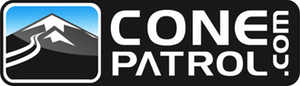
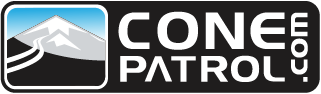
changing the design a bit

diff --git a/app/assets/stylesheets/base.css b/app/assets/stylesheets/base.css
@@ -52,7 +52,7 @@
 /* #Basic Styles
 ================================================== */
 	body {
-		background: #fff;
+		background: #F6F6F6;
 		font: 14px/21px "HelveticaNeue", "Helvetica Neue", Helvetica, Arial, sans-serif;
 		color: #444;
 		-webkit-font-smoothing: antialiased; /* Fix for webkit rendering */
@@ -348,16 +348,30 @@ h1, h2, h3, h4, h5, h6 {
 		color: #181818;
 		font-family: 'Lato', "Georgia", "Times New Roman", Helvetica, Arial, sans-serif;
 		font-weight: normal; }
-div.highlight{ background: #fff6d9 }
+div.highlight{ 
+  border: 1px solid #cacaca;
+-webkit-box-shadow: 2px 2px 2px rgba(50, 50, 50, 0.75);
+-moz-box-shadow:    2px 2px 2px rgba(50, 50, 50, 0.75);
+box-shadow:         2px 2px 2px rgba(50, 50, 50, 0.75);
+-webkit-border-radius: 10px;
+-moz-border-radius: 10px;
+border-radius: 10px;
+margin-bottom: 20px;
+background: #fff6d9;  }
 div.shimmed{ width: 90%; margin: 0 auto 0; padding: 10px; }
 div.sub{ height: 140px; margin-top: 10px; }
 h1.logo{
+  margin: 0px auto;
   display: block;
   background: url(/images/header.png) 0 0 no-repeat transparent;
-  width: 300px;
-  height: 88px;
+  width: 322px;
+  height: 94px;
   text-indent: -9999px;
 }
+div.logo{ border-bottom: 1px solid #DDD; margin-bottom: 20px; padding-bottom: 20px }
+h1.home, h2.home{ font-size: 24px; text-align: center; }
+div.highlight div.shimmed { margin-bottom: 20px; padding-top: 20px; }
+span.boldy{ font-weight: bold; font-size: 110% }
 
 @media only screen and (max-width: 767px) {
   ul.nav{ margin-top: 10px }

diff --git a/app/assets/stylesheets/application.css b/app/assets/stylesheets/application.css
@@ -49,3 +49,7 @@ div.stat{ width: 100%; margin: 5px auto 5px auto; border-top: 1px solid #ccc; pa
 textarea.message { margin-bottom: 0 }
 span.countdown{ display: block; width: 100%; clear: left; margin-bottom: 10px; font-size: 12px }
 div#preview-window{ padding: 10px; font-size: 12px; background: #ccc; font-weight: bold }
+
+body{ background: #F6F6F6 }
+
+

diff --git a/config/deploy.rb b/config/deploy.rb
@@ -13,6 +13,8 @@ desc "Symlink db config and public assets"
 task :symlink_assets, :roles => :app, :except => {:no_release => true, :no_symlink => true} do
   run "ln -nfs #{shared_path}/config/database.yml #{release_path}/config/"
   run "ln -nfs #{shared_path}/config/environments/production.rb #{release_path}/config/environments/"
+  run "rm #{release_path}/config/environments/development.rb"
+  run "ln -nfs #{shared_path}/config/environments/production.rb #{release_path}/config/environments/development.rb"
   run "ln -nfs #{shared_path}/tmp/ #{release_path}/tmp/"
   #run "cd #{release_path} && bundle exec rake assets:precompile"
 end
